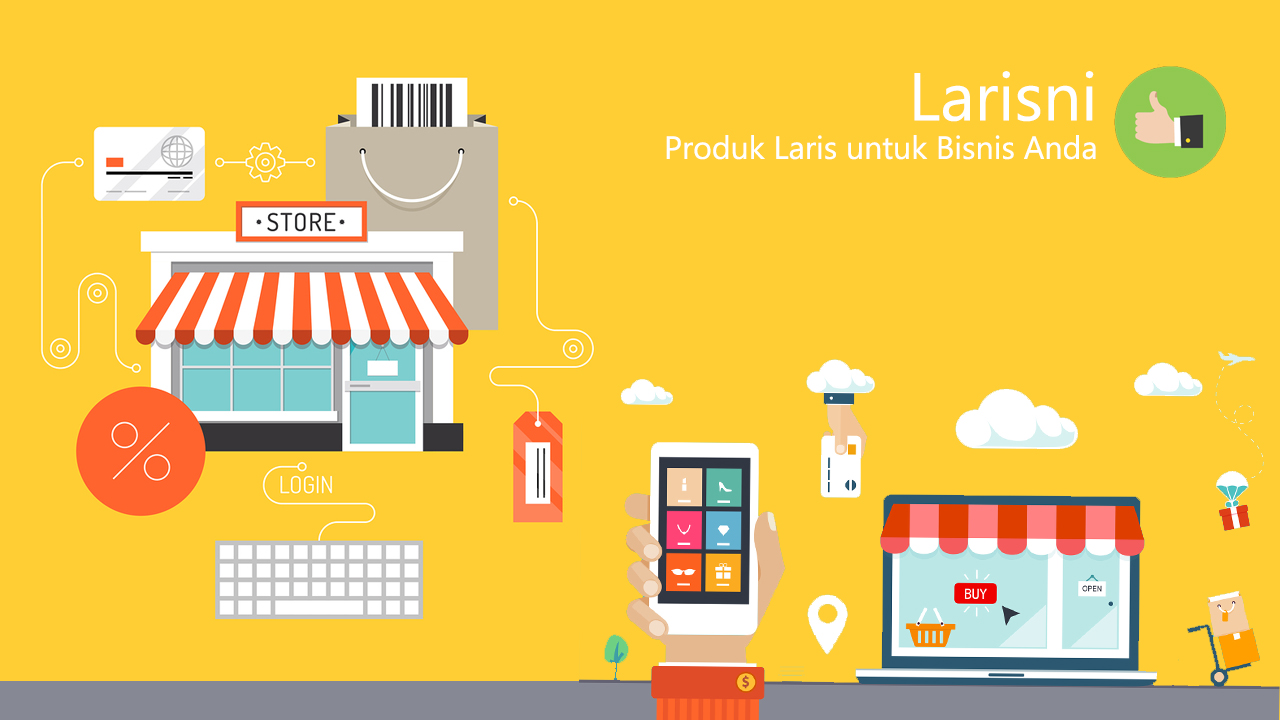
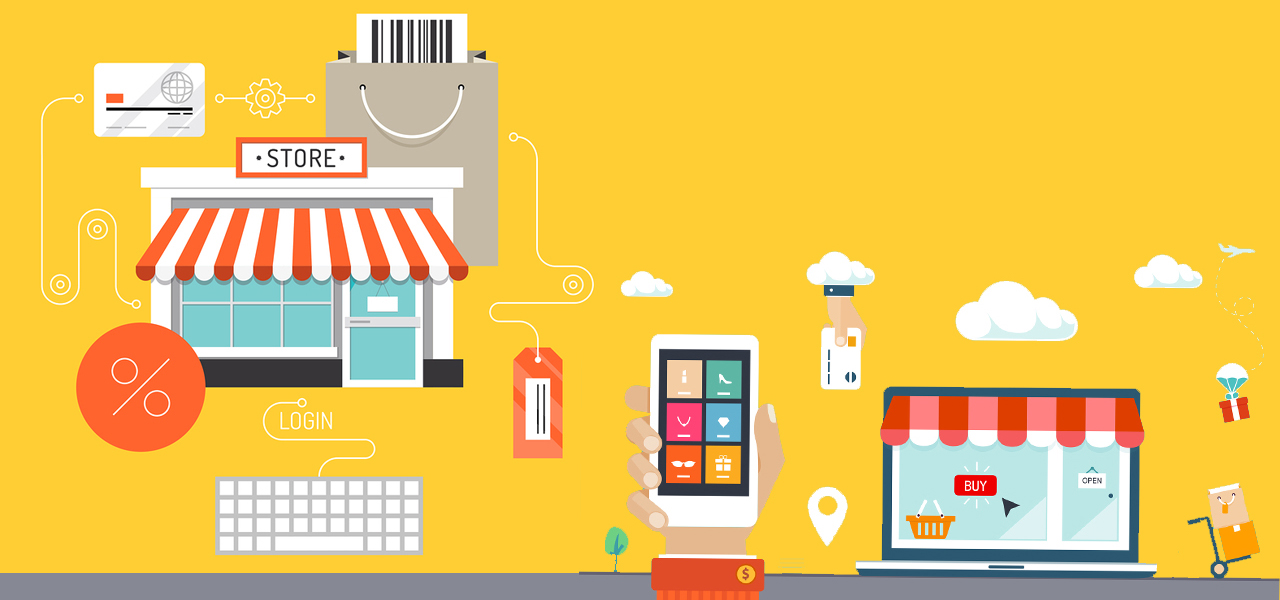
home content

diff --git a/_frontend/dev/sass/modules/_banner-layout.scss b/_frontend/dev/sass/modules/_banner-layout.scss
@@ -4,6 +4,8 @@
 --------------------------------------------------------------------------- */
 
 .section-surfari-home {
+	margin: 0 !important;
+	padding-top: 50px;
 	.section-surfari-home--content {
 		text-align: center;
 		margin: 3em auto 4em;
@@ -24,23 +26,34 @@
 		}
 	}
 	.banner-item {
-		img {
-			opacity: .95;
+		display: inline-block;
+		height: auto;
+		@media #{$large} {
+			min-height: 600px;
 		}
-		display: block;
-		@media #{$medium} {
-			min-height: 480px;
-		}
-		min-height: 200px;
 		.banner-caption__container {
 			width: 100%; 
-			height: 100%;
-			display: block;
+			min-height: 180px;
+			text-align: center;
+			@media #{$medium} {
+				height: 100%;
+				text-align: left;
+			}
+			padding: 2em;
 			.banner-caption__inner {
-				top: 340px;
+				animation-name: banner-info-animation;
+				background: rgba(0,0,0,0.7);
+				display: inline-block;
 				position: relative;
 				z-index: 20;
 				text-align: center;
+				top: 10px;
+				padding: 5px;
+				@media #{$medium} {
+					padding: 20px;
+					top: 300px;
+					text-align: left;
+				}
 				h1, p {
 					text-shadow: 1px 0 3px rgba(black, .3);
 					animation-name: banner-info-animation;
@@ -57,15 +70,34 @@
 				.banner-caption__title {
 					display: inline-block;
 					margin: 10px auto;
-					width: auto;
-					background-color: rgba(255,255,255, 0.75);
-					padding: 10px;
 					white-space:normal;
 					color: $darkorange;
+					font-size: 1em;
+					margin: 5px;
+					@media #{$medium} {
+						margin: auto;
+						font-size: 3.5em;
+					}
 				}
 				.banner-caption__description {
-					font-size: 1.5em;
-					color: $black80;
+					font-size: .75em;
+					margin: 0;
+					@media #{$medium} {
+						margin: auto;
+						font-size: 2em;
+					}
+					color: $green;
+				}
+				.banner-caption__description-sm {
+					font-size: .5em;
+					display: none;
+					margin: 0;
+					@media #{$medium} {
+						margin: auto;
+						font-size: 1.5em;
+						display: inline-block;
+					}
+					color: white;
 				}
 			}
 		}

diff --git a/_frontend/dev/sass/modules/_breadcrumb.scss b/_frontend/dev/sass/modules/_breadcrumb.scss
@@ -167,3 +167,67 @@ $bread_separator    : '';
         }
     }
 }
+
+/* 
+--------------------------------------------------------------------------- 
+  MAIN DROPSHIP BREADCRUMB
+--------------------------------------------------------------------------- */
+
+.dropship-steps {
+    list-style-position: inside;
+    li {
+        @include animate-transition(.15s);
+        padding: 20px;
+        display: inline-block;
+        background: $black20;
+        width: 80%;
+        margin-bottom: 10px;
+        @media #{$medium} {
+            width: 23%;
+        }
+        position: relative;
+        h3 {
+            color: $darkorange;
+            font-family: Lato, Arial, Verdana;
+            letter-spacing: 1px;
+            font-weight: bold;
+            font-size: 1.5em;
+            margin: 0 0 15px 0;
+        }
+        p {
+            margin: 0;
+        }
+        &:hover {
+            cursor: pointer;
+            background: $orange;
+            h3 {
+                color: white;
+            }
+            &:after {
+                border-left: 20px solid $darkorange;
+            }
+        }
+        &:after { 
+            content: " "; 
+            width: 0; 
+            height: 0;
+            border-top: 40px solid transparent;           /* Go big on the size, and let overflow hide */
+            border-bottom: 40px solid transparent;
+            border-left: 20px solid $black30;
+            position: absolute;
+            top: 60%;
+            margin-top: -50px; 
+            left: 100%;
+            z-index: 2; 
+            display: none; 
+            @media #{$medium} {
+                display: block; 
+            }
+        }
+        &:last-child {
+            &:after {
+                display: none;
+            }
+        }
+    }
+}

diff --git a/app/assets/javascripts/bitubi.js b/app/assets/javascripts/bitubi.js
@@ -103,13 +103,11 @@
                     var scroll = $(this).scrollTop();
                     var notif = $('.page-notification--container');
                     if (scroll > previousScroll){
-                        console.log('a');
                         $('.head-contact-info').hide();
                         $('.header-main__top-bar').css('top', 0);
                         if (notif) 
                             notif.css('top', 50);
                     } else {
-                        console.log('b');
                         $('.head-contact-info').show();
                         $('.header-main__top-bar').css('top', 25);
                         if (notif) 

diff --git a/_frontend/dev/sass/partial/_helpers.scss b/_frontend/dev/sass/partial/_helpers.scss
@@ -138,10 +138,14 @@
   display:inline-block;
 }
 
+.hero {
+    position:relative;
+}
+
 .hero:after {
     content:'';
     position: absolute;
-    top: 90%;
+    top: 100%;
     left: 50%;
     margin-left: -50px;
     width: 0;
@@ -149,10 +153,6 @@
     border-top: solid 25px $black30;
     border-left: solid 25px transparent;
     border-right: solid 25px transparent;
-    display:none;
-    @media #{$medium}{
-        display:block;
-    }
 }
 
 .ft-2 {
